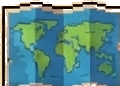
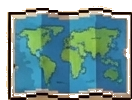
Base: hub em RETRATO (celular em pe) + corrige recortes (placa e fornalha)
- Layout do hub empilhado em retrato: party 2x2, faixa de icones, loja de gambits, rodape
- Remove o 'breakout' deitado; #screen-base volta a caber na largura mobile
- Placa com aspect-ratio real (586x81) -> espada+escudo inteiros, sem esticar/cortar
- Reextrai icones centrais completos (fornalha com chamine, academia, mapa)
- Academia = so slots (condicionais ficam na Loja de Gambits); remove titulo duplicado

Claude-Session: https://claude.ai/code/session_01EbSkREzXFkmQR9kLV1N6oq

diff --git a/vibe-gambit/index.html b/vibe-gambit/index.html
@@ -32,63 +32,65 @@
   .brand small{display:block;font-size:8px;color:var(--dim);letter-spacing:1.4px;text-transform:uppercase;font-weight:700}
   .logo-emblem{height:36px;width:auto;image-rendering:pixelated;filter:drop-shadow(0 2px 2px #0009);flex:none}
   .ticon{width:20px;height:20px;object-fit:contain;image-rendering:pixelated;vertical-align:-4px;margin-right:4px}
-  /* ---------- Base: hub DEITADO com moldura de ARTE sobre o acampamento ---------- */
-  /* a Base "quebra" a largura do app (460) e ocupa a tela deitada */
-  #screen-base{position:relative;padding:30px 2px 10px;border-radius:16px;
+  /* ---------- Base: hub RETRATO (celular em pé) com moldura de ARTE sobre o acampamento ---------- */
+  #screen-base{position:relative;padding:34px 2px 10px;border-radius:16px;
     background:linear-gradient(rgba(20,26,34,.42),rgba(20,26,34,.60)),url(assets/bg_basecamp.png) center/cover no-repeat;
     box-shadow:0 8px 22px rgba(10,14,20,.45)}
-  #screen-base.active{display:block;width:min(96vw,980px);margin-left:calc((100% - min(96vw,980px))/2)}
   .base-frame{position:relative;
-    border:22px solid transparent;border-image:url(assets/frame9.png) 46 round;
+    border:20px solid transparent;border-image:url(assets/frame9.png) 46 round;
     background:var(--panel);background-clip:padding-box;border-radius:10px;
-    padding:16px 12px 12px;image-rendering:pixelated}
+    padding:16px 11px 12px;image-rendering:pixelated}
   .base-frame > *{image-rendering:auto}
-  .base-title{position:absolute;top:-22px;left:50%;transform:translateX(-50%);z-index:3;
-    width:min(320px,60%);height:46px;
+  /* placa: aspect-ratio real (586x81) pra NÃO esticar/cortar espada+escudo, acima da moldura */
+  .base-title{position:absolute;top:-26px;left:50%;transform:translateX(-50%);z-index:4;
+    width:min(330px,80%);aspect-ratio:586/81;
     background:url(assets/ribbon.png) center/100% 100% no-repeat;image-rendering:pixelated;
     display:flex;align-items:center;justify-content:center;
     color:#f7ead0;font-size:14px;font-weight:900;letter-spacing:.4px;
     text-shadow:0 1px 0 #2c1a0c,0 0 3px #2c1a0c}
   .base-title span{image-rendering:auto;padding-bottom:2px}
 
-  /* --- grid de 3 colunas: painel | ícones | painel --- */
-  .hub-grid{display:grid;grid-template-columns:1fr auto 1fr;gap:12px;align-items:stretch;margin-top:14px}
+  /* --- hub RETRATO: tudo empilhado numa coluna --- */
+  .hub-grid{display:flex;flex-direction:column;gap:11px;margin-top:16px}
   .hub-panel{background:var(--card);border:1px solid var(--line);border-radius:12px;
-    padding:10px;box-shadow:inset 0 0 0 2px #f4ead0,0 2px 6px rgba(30,20,8,.12);min-height:340px}
+    padding:9px;box-shadow:inset 0 0 0 2px #f4ead0,0 2px 6px rgba(30,20,8,.12)}
   .panel-cap{font-size:13px;font-weight:900;color:var(--ink2);text-align:center;
-    padding:4px 0 8px;border-bottom:1px dashed var(--line);margin-bottom:8px;letter-spacing:.3px}
+    padding:2px 0 7px;border-bottom:1px dashed var(--line);margin-bottom:8px;letter-spacing:.3px}
 
-  /* esquerda: cards de herói */
-  .party-cards{display:flex;flex-direction:column;gap:8px}
-  .party-card{display:flex;gap:10px;align-items:center;background:#fff8e8;
-    border:1px solid var(--line);border-left:5px solid var(--acc,#8a6a34);border-radius:10px;padding:7px 9px}
-  .pc-face{width:52px;height:52px;flex:none;border-radius:9px;overflow:hidden;
+  /* party: grade 2x2 de cards compactos */
+  .party-cards{display:grid;grid-template-columns:1fr 1fr;gap:8px}
+  .party-card{display:flex;gap:8px;align-items:center;background:#fff8e8;
+    border:1px solid var(--line);border-left:5px solid var(--acc,#8a6a34);border-radius:10px;padding:6px 7px}
+  .pc-face{width:48px;height:48px;flex:none;border-radius:9px;overflow:hidden;
     background:radial-gradient(circle at 50% 35%,#fff,#e9d6ab);border:2px solid var(--acc,#8a6a34)}
-  .pc-face img{width:100%;height:100%;object-fit:cover;object-position:50% 12%;image-rendering:pixelated}
+  .pc-face img{width:100%;height:100%;object-fit:cover;object-position:50% 16%;image-rendering:pixelated}
   .pc-info{flex:1;min-width:0}
-  .pc-nm{font-weight:900;font-size:14px;color:var(--ink)}
-  .pc-st{font-size:11px;font-weight:800;color:var(--dim);margin:1px 0 5px}
-  .eq-row{display:flex;gap:5px}
-  .eq-slot{display:inline-flex;align-items:center;gap:2px;padding:3px 6px;border-radius:8px;
-    background:var(--inset);border:1px solid var(--line);box-shadow:none;font-size:13px;line-height:1}
+  .pc-nm{font-weight:900;font-size:13px;color:var(--ink);line-height:1.1}
+  .pc-st{font-size:10.5px;font-weight:800;color:var(--dim);margin:1px 0 5px}
+  .eq-row{display:flex;gap:4px}
+  .eq-slot{display:inline-flex;align-items:center;gap:1px;padding:3px 5px;border-radius:7px;
+    background:var(--inset);border:1px solid var(--line);box-shadow:none;font-size:12px;line-height:1}
   .eq-slot.on{background:#fff3d4;border-color:var(--gold-d)}
-  .eq-slot b{font-size:10px;color:var(--gold-d)}
+  .eq-slot b{font-size:9px;color:var(--gold-d)}
   .eq-ic{filter:saturate(.9)} .eq-ic.big{font-size:26px}
 
-  /* centro: ícones de menu (arte da referência) */
-  .hub-center{display:flex;flex-direction:column;justify-content:center;gap:16px;padding:0 2px}
-  .hub-ic{display:flex;flex-direction:column;align-items:center;gap:3px;background:none;border:none;box-shadow:none;padding:2px}
-  .hub-ic img{width:64px;height:64px;object-fit:contain;image-rendering:pixelated;
-    filter:drop-shadow(0 3px 3px rgba(0,0,0,.35));transition:transform .1s}
+  /* centro: ícones de menu (arte da referência) numa faixa horizontal */
+  .hub-center{display:flex;flex-direction:row;justify-content:space-around;align-items:flex-end;gap:8px;
+    background:linear-gradient(180deg,#f6ecce,#efe0b8);border:1px solid var(--line);border-radius:12px;
+    padding:10px 6px 8px;box-shadow:inset 0 0 0 2px #f4ead0}
+  .hub-ic{display:flex;flex-direction:column;align-items:center;gap:4px;background:none;border:none;box-shadow:none;padding:2px;flex:1}
+  .hub-ic img{width:58px;height:58px;object-fit:contain;image-rendering:pixelated;
+    filter:drop-shadow(0 3px 3px rgba(0,0,0,.28));transition:transform .1s}
+  .hub-ic:active img{transform:translateY(2px)}
   .hub-ic:hover img{transform:translateY(-3px) scale(1.05)}
-  .hub-ic span{font-size:11px;font-weight:900;color:#f3e3bd;text-shadow:0 1px 2px #000,0 0 3px #000}
+  .hub-ic span{font-size:11px;font-weight:900;color:var(--ink2)}
 
-  /* direita: NPC + loja de gambits */
+  /* loja de gambits: NPC + lista */
   .shop-wrap{display:flex;flex-direction:column;gap:8px}
-  .npc-box{display:flex;align-items:center;gap:8px;background:#fff8e8;border:1px solid var(--line);border-radius:10px;padding:6px 8px}
-  .npc-box .npc{width:64px;height:auto;image-rendering:pixelated;flex:none}
-  .npc-say{font-size:12px;font-style:italic;color:var(--ink2);font-weight:700}
-  .shop-list{display:flex;flex-direction:column;gap:6px;max-height:250px;overflow:auto}
+  .npc-box{display:flex;align-items:center;gap:10px;background:#fff8e8;border:1px solid var(--line);border-radius:10px;padding:6px 10px}
+  .npc-box .npc{width:60px;height:auto;image-rendering:pixelated;flex:none}
+  .npc-say{font-size:12.5px;font-style:italic;color:var(--ink2);font-weight:700}
+  .shop-list{display:flex;flex-direction:column;gap:6px}
   .shop-item{display:flex;align-items:center;gap:6px;background:#fff8e8;border:1px solid var(--line);
     border-radius:9px;padding:6px 8px}
   .shop-item.owned{opacity:.72}
@@ -96,30 +98,21 @@
   .si-cost{font-size:12px} .si-owned{font-size:11px;font-weight:800;color:var(--heal)}
   .shop-buy{padding:5px 10px;font-size:12px}
 
-  /* rodapé: engrenagem + botão dourado + X */
-  .hub-foot{display:flex;align-items:center;gap:10px;margin-top:12px}
-  .hub-foot-spacer{flex:0 0 40px}
-  .hub-gear{flex:none;width:40px;height:40px;padding:0;font-size:18px;border-radius:10px}
+  /* rodapé: engrenagem + botão dourado */
+  .hub-foot{display:flex;align-items:center;gap:9px;margin-top:12px}
+  .hub-foot-spacer{display:none}
+  .hub-gear{flex:none;width:44px;height:44px;padding:0;font-size:18px;border-radius:10px}
   .gold-cta{flex:1;background:linear-gradient(180deg,#ffd76b,#eab032);border:2px solid #c88f20;
-    color:#4a3410;font-size:16px;font-weight:900;text-shadow:0 1px 0 #ffe9a8;
+    color:#4a3410;font-size:15px;font-weight:900;text-shadow:0 1px 0 #ffe9a8;
     box-shadow:0 3px 0 #b07f22,0 5px 12px rgba(120,80,20,.3);padding:12px}
-  .hub-x{position:absolute;top:-14px;right:6px;z-index:3;width:32px;height:32px;padding:0;border-radius:8px;
+  .hub-x{position:absolute;top:-13px;right:2px;z-index:5;width:30px;height:30px;padding:0;border-radius:8px;
     background:linear-gradient(180deg,#8a95a2,#5f6772);border:2px solid #3f454d;color:#fff;font-weight:900;
     box-shadow:0 2px 0 #3f454d}
 
   /* modais largos + rosto no título */
   .box-wide{max-width:520px!important}
-  .mh-face{width:30px;height:30px;border-radius:6px;object-fit:cover;object-position:50% 12%;vertical-align:-8px;image-rendering:pixelated;border:2px solid var(--acc,#8a6a34)}
+  .mh-face{width:30px;height:30px;border-radius:6px;object-fit:cover;object-position:50% 16%;vertical-align:-8px;image-rendering:pixelated;border:2px solid var(--acc,#8a6a34)}
   .eq-cur,.eq-empty{display:flex;align-items:center;gap:12px;background:var(--panel);border:1px solid var(--line);border-radius:10px;padding:12px;margin-bottom:10px}
-
-  /* Base em telas estreitas (celular em pé): empilha as 3 colunas */
-  @media(max-width:640px){
-    .hub-grid{grid-template-columns:1fr;gap:10px}
-    .hub-center{flex-direction:row;justify-content:space-around;order:-1}
-    .hub-ic img{width:52px;height:52px}
-    .hub-panel{min-height:0}
-  }
-  .base-frame .tabbar{margin-top:4px}
   .nav{display:flex;gap:6px;flex:0 0 auto}
   .res{order:3;flex-basis:100%;display:flex;justify-content:space-between;gap:6px;font-weight:800;font-size:12px;
     background:#2c2114;border:1px solid #23190e;border-radius:10px;padding:6px 10px;color:#f2e7d2}

diff --git a/vibe-gambit/src/game.js b/vibe-gambit/src/game.js
@@ -294,39 +294,20 @@ function renderForge(body, onlyId){
 }
 
 function renderAcademy(body){
-  const shopIds = Object.keys(ACADEMY.conditionShop);
-  body.innerHTML = `<h3 style="padding:0 2px 8px">🎓 Academia de Tática</h3>
-    <div class="panel" style="margin-bottom:12px;background:var(--panel)">
-      <h3>➕ Slots de Gambit por herói</h3>
-      <div class="hero-cards">${S.heroes.map(hs=>{
-        const def = HERO_DEFS.find(h=>h.id===hs.id); const nextSlot = hs.slots+1;
-        const cost = ACADEMY.slotCosts[nextSlot];
-        return `<div class="hcard" style="--acc:${accentOf(def.id)}"><div class="top"><div class="av">${spriteFor(def.id)}</div>
-          <div><div class="nm">${def.name}</div><div class="kl">${hs.slots}/${def.maxSlots} slots</div></div></div>
-          ${ cost
-            ? `${costHTML(cost)}<button class="small primary slot-btn" data-id="${hs.id}" ${canAfford(cost)?'':'disabled'} style="margin-top:8px;width:100%">Desbloquear slot ${nextSlot}</button>`
-            : `<div class="tiny" style="color:var(--gold);margin-top:6px">★ Slots no máximo</div>` }
-        </div>`;
-      }).join('')}</div>
-    </div>
-    <div class="panel" style="background:var(--panel)">
-      <h3>📜 Loja de Condicionais (desbloqueia p/ todos)</h3>
-      <div class="hero-cards">${shopIds.map(cid=>{
-        const owned = S.unlockedConditions.includes(cid); const cost = ACADEMY.conditionShop[cid];
-        return `<div class="hcard"><div class="nm" style="font-size:13px">${CONDITIONS[cid].label}</div>
-          ${ owned ? `<div class="tiny" style="color:var(--heal);margin-top:8px">✓ Desbloqueada</div>`
-                   : `<div style="margin-top:8px">${costHTML(cost)}</div>
-                      <button class="small cond-btn" data-id="${cid}" ${canAfford(cost)?'':'disabled'} style="margin-top:8px;width:100%">Comprar</button>` }
-        </div>`;
-      }).join('')}</div>
-    </div>`;
+  body.innerHTML = `<p class="muted tiny" style="margin:0 2px 10px">Desbloqueie mais linhas de gambit por herói. (As condicionais você compra na 📜 Loja de Gambits.)</p>
+    <div class="hero-cards">${S.heroes.map(hs=>{
+      const def = HERO_DEFS.find(h=>h.id===hs.id); const nextSlot = hs.slots+1;
+      const cost = ACADEMY.slotCosts[nextSlot];
+      return `<div class="hcard" style="--acc:${accentOf(def.id)}"><div class="top"><div class="av">${spriteFor(def.id)}</div>
+        <div><div class="nm">${def.name}</div><div class="kl">${hs.slots}/${def.maxSlots} slots</div></div></div>
+        ${ cost
+          ? `${costHTML(cost)}<button class="small primary slot-btn" data-id="${hs.id}" ${canAfford(cost)?'':'disabled'} style="margin-top:8px;width:100%">Desbloquear slot ${nextSlot}</button>`
+          : `<div class="tiny" style="color:var(--gold);margin-top:6px">★ Slots no máximo</div>` }
+      </div>`;
+    }).join('')}</div>`;
   body.querySelectorAll('.slot-btn').forEach(b => b.onclick = () => {
     const hs = S.heroes.find(h=>h.id===b.dataset.id); const cost = ACADEMY.slotCosts[hs.slots+1];
     if(!cost || !canAfford(cost)) return; spend(cost); hs.slots++; save(S); bumpRes(); renderAcademy(body);
-  });
-  body.querySelectorAll('.cond-btn').forEach(b => b.onclick = () => {
-    const cid = b.dataset.id; const cost = ACADEMY.conditionShop[cid];
-    if(!canAfford(cost)) return; spend(cost); S.unlockedConditions.push(cid); save(S); bumpRes(); renderAcademy(body);
   });
 }
 
